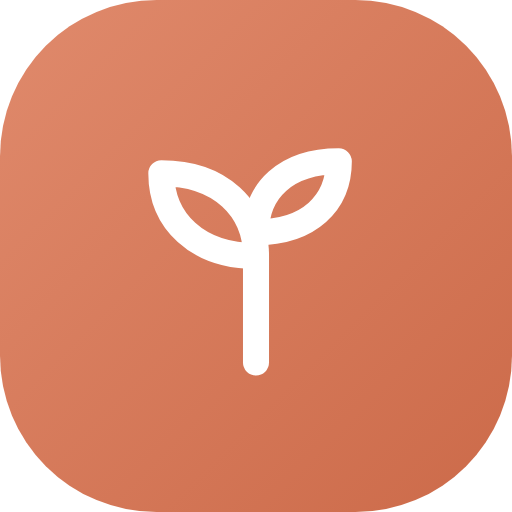
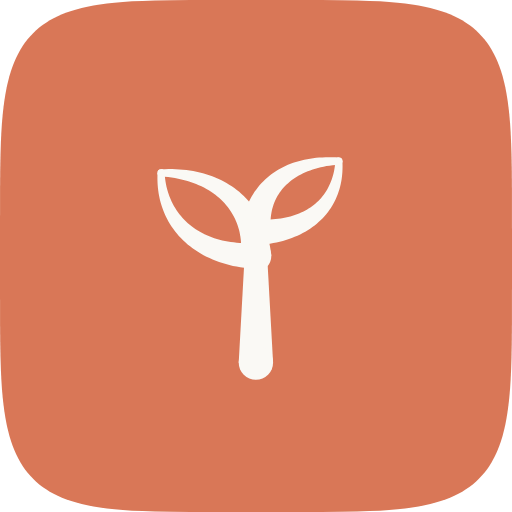
Console update

diff --git a/index.html b/index.html
@@ -3,7 +3,7 @@
 <head>
   <meta charset="utf-8">
   <meta name="viewport" content="width=device-width, initial-scale=1">
-  <title>Naked Console</title>
+  <title>Naked Heart</title>
   <meta name="description" content="Run a FarmBox: people, plans, procedures, crops.">
   <meta name="theme-color" content="#0b0b0d">
   <script>
@@ -23,12 +23,12 @@
   <link rel="preconnect" href="https://fonts.gstatic.com" crossorigin>
   <link rel="stylesheet" href="https://fonts.googleapis.com/css2?family=Inter:wght@400;500;600;700;800&display=swap">
   <!-- bump ?v when the stylesheet changes: a static host will serve the old one otherwise -->
-  <link rel="stylesheet" href="styles.css?v=20260926a">
+  <link rel="stylesheet" href="styles.css?v=20260926b">
   <link rel="manifest" href="manifest.json">
-  <link rel="icon" href="icons/icon-192.png?v=3" sizes="192x192" type="image/png">
-  <link rel="apple-touch-icon" href="icons/apple-touch-icon.png?v=3">
+  <link rel="icon" href="icons/icon-192.png?v=4" sizes="192x192" type="image/png">
+  <link rel="apple-touch-icon" href="icons/apple-touch-icon.png?v=4">
   <meta name="apple-mobile-web-app-capable" content="yes">
-  <meta name="apple-mobile-web-app-title" content="Naked Console">
+  <meta name="apple-mobile-web-app-title" content="Naked Heart">
 </head>
 <body>
 
@@ -36,8 +36,8 @@
 <main class="signin" id="signin" hidden>
   <form class="card card-pad" id="signinForm">
     <div class="brand">
-      <span class="mark" data-icon="sprout" aria-hidden="true"></span>
-      <span><b>Naked Console</b><small>Naked Farm</small></span>
+      <span class="mark" aria-hidden="true"><svg viewBox="0 0 100 100" aria-hidden="true"><path d="M100.00,50.00 L99.83,72.14 L99.31,79.12 L98.44,84.05 L97.20,87.89 L95.58,91.00 L93.53,93.53 L91.00,95.58 L87.89,97.20 L84.05,98.44 L79.12,99.31 L72.14,99.83 L50.00,100.00 L27.86,99.83 L20.88,99.31 L15.95,98.44 L12.11,97.20 L9.00,95.58 L6.47,93.53 L4.42,91.00 L2.80,87.89 L1.56,84.05 L0.69,79.12 L0.17,72.14 L0.00,50.00 L0.17,27.86 L0.69,20.88 L1.56,15.95 L2.80,12.11 L4.42,9.00 L6.47,6.47 L9.00,4.42 L12.11,2.80 L15.95,1.56 L20.88,0.69 L27.86,0.17 L50.00,0.00 L72.14,0.17 L79.12,0.69 L84.05,1.56 L87.89,2.80 L91.00,4.42 L93.53,6.47 L95.58,9.00 L97.20,12.11 L98.44,15.95 L99.31,20.88 L99.83,27.86 Z" fill="var(--brand-tile, #D97757)"/><g fill="#FAF9F5" transform="translate(22.2 22.2) scale(2.315)"><path d="M13.45,21.00 L13.41,20.36 L13.38,19.71 L13.34,19.07 L13.31,18.43 L13.27,17.79 L13.24,17.14 L13.20,16.50 L13.16,15.86 L13.13,15.21 L13.09,14.57 L13.06,13.93 L13.02,13.29 L12.99,12.64 L12.95,12.00 L11.05,12.00 L11.01,12.64 L10.98,13.29 L10.94,13.93 L10.91,14.57 L10.87,15.21 L10.84,15.86 L10.80,16.50 L10.76,17.14 L10.73,17.79 L10.69,18.43 L10.66,19.07 L10.62,19.71 L10.59,20.36 L10.55,21.00 Z"/><circle cx="12.00" cy="21.00" r="1.45"/><circle cx="12.00" cy="12.00" r="0.95"/><path d="M13.30,11.93 L13.15,11.03 L12.92,10.10 L12.59,9.23 L12.16,8.43 L11.65,7.69 L11.06,7.02 L10.39,6.43 L9.65,5.93 L8.85,5.51 L7.99,5.17 L7.07,4.92 L6.10,4.76 L5.07,4.68 L4.01,4.70 L3.99,5.30 L5.01,5.41 L5.94,5.60 L6.79,5.87 L7.56,6.21 L8.24,6.61 L8.85,7.06 L9.36,7.57 L9.79,8.11 L10.14,8.69 L10.42,9.30 L10.61,9.94 L10.72,10.60 L10.75,11.29 L10.70,12.07 Z"/><circle cx="12.00" cy="12.00" r="1.30"/><circle cx="4.00" cy="5.00" r="0.30"/><path d="M3.70,5.02 L3.70,5.88 L3.80,6.73 L3.98,7.56 L4.26,8.36 L4.64,9.12 L5.11,9.84 L5.67,10.50 L6.33,11.10 L7.07,11.64 L7.90,12.10 L8.82,12.48 L9.81,12.78 L10.87,12.99 L11.95,13.10 L12.05,10.90 L11.05,10.92 L10.16,10.86 L9.33,10.73 L8.55,10.52 L7.83,10.25 L7.18,9.91 L6.58,9.50 L6.04,9.03 L5.57,8.50 L5.16,7.91 L4.82,7.26 L4.57,6.56 L4.39,5.80 L4.30,4.98 Z"/><circle cx="4.00" cy="5.00" r="0.30"/><circle cx="12.00" cy="12.00" r="1.10"/><path d="M13.30,10.07 L13.24,9.39 L13.25,8.81 L13.33,8.25 L13.48,7.71 L13.69,7.20 L13.97,6.72 L14.32,6.26 L14.75,5.83 L15.26,5.44 L15.85,5.10 L16.52,4.81 L17.27,4.57 L18.10,4.40 L19.01,4.30 L18.99,3.70 L18.04,3.67 L17.12,3.73 L16.26,3.85 L15.44,4.05 L14.67,4.33 L13.96,4.69 L13.30,5.12 L12.71,5.62 L12.18,6.20 L11.73,6.85 L11.35,7.56 L11.05,8.32 L10.84,9.14 L10.70,9.93 Z"/><circle cx="12.00" cy="10.00" r="1.30"/><circle cx="19.00" cy="4.00" r="0.30"/><path d="M18.70,3.98 L18.62,4.70 L18.46,5.35 L18.24,5.95 L17.95,6.50 L17.60,6.99 L17.20,7.43 L16.74,7.81 L16.23,8.14 L15.66,8.41 L15.04,8.63 L14.37,8.79 L13.64,8.89 L12.85,8.93 L11.96,8.90 L12.04,11.10 L13.02,11.00 L13.97,10.81 L14.86,10.55 L15.67,10.22 L16.40,9.81 L17.06,9.34 L17.64,8.81 L18.13,8.23 L18.53,7.61 L18.85,6.94 L19.08,6.24 L19.23,5.52 L19.30,4.77 L19.30,4.02 Z"/><circle cx="19.00" cy="4.00" r="0.30"/><circle cx="12.00" cy="10.00" r="1.10"/></g></svg></span>
+      <span><b>Naked Heart</b><small>Naked Farm</small></span>
     </div>
     <div class="field" style="margin-bottom:var(--space-4)">
       <label for="si-email">E-mail</label>
@@ -56,8 +56,8 @@
 <div class="shell" id="shell" hidden>
   <nav class="rail" aria-label="Sections">
     <div class="brand">
-      <span class="mark" data-icon="sprout" aria-hidden="true"></span>
-      <span><b>Naked</b><small>Console</small></span>
+      <span class="mark" aria-hidden="true"><svg viewBox="0 0 100 100" aria-hidden="true"><path d="M100.00,50.00 L99.83,72.14 L99.31,79.12 L98.44,84.05 L97.20,87.89 L95.58,91.00 L93.53,93.53 L91.00,95.58 L87.89,97.20 L84.05,98.44 L79.12,99.31 L72.14,99.83 L50.00,100.00 L27.86,99.83 L20.88,99.31 L15.95,98.44 L12.11,97.20 L9.00,95.58 L6.47,93.53 L4.42,91.00 L2.80,87.89 L1.56,84.05 L0.69,79.12 L0.17,72.14 L0.00,50.00 L0.17,27.86 L0.69,20.88 L1.56,15.95 L2.80,12.11 L4.42,9.00 L6.47,6.47 L9.00,4.42 L12.11,2.80 L15.95,1.56 L20.88,0.69 L27.86,0.17 L50.00,0.00 L72.14,0.17 L79.12,0.69 L84.05,1.56 L87.89,2.80 L91.00,4.42 L93.53,6.47 L95.58,9.00 L97.20,12.11 L98.44,15.95 L99.31,20.88 L99.83,27.86 Z" fill="var(--brand-tile, #D97757)"/><g fill="#FAF9F5" transform="translate(22.2 22.2) scale(2.315)"><path d="M13.45,21.00 L13.41,20.36 L13.38,19.71 L13.34,19.07 L13.31,18.43 L13.27,17.79 L13.24,17.14 L13.20,16.50 L13.16,15.86 L13.13,15.21 L13.09,14.57 L13.06,13.93 L13.02,13.29 L12.99,12.64 L12.95,12.00 L11.05,12.00 L11.01,12.64 L10.98,13.29 L10.94,13.93 L10.91,14.57 L10.87,15.21 L10.84,15.86 L10.80,16.50 L10.76,17.14 L10.73,17.79 L10.69,18.43 L10.66,19.07 L10.62,19.71 L10.59,20.36 L10.55,21.00 Z"/><circle cx="12.00" cy="21.00" r="1.45"/><circle cx="12.00" cy="12.00" r="0.95"/><path d="M13.30,11.93 L13.15,11.03 L12.92,10.10 L12.59,9.23 L12.16,8.43 L11.65,7.69 L11.06,7.02 L10.39,6.43 L9.65,5.93 L8.85,5.51 L7.99,5.17 L7.07,4.92 L6.10,4.76 L5.07,4.68 L4.01,4.70 L3.99,5.30 L5.01,5.41 L5.94,5.60 L6.79,5.87 L7.56,6.21 L8.24,6.61 L8.85,7.06 L9.36,7.57 L9.79,8.11 L10.14,8.69 L10.42,9.30 L10.61,9.94 L10.72,10.60 L10.75,11.29 L10.70,12.07 Z"/><circle cx="12.00" cy="12.00" r="1.30"/><circle cx="4.00" cy="5.00" r="0.30"/><path d="M3.70,5.02 L3.70,5.88 L3.80,6.73 L3.98,7.56 L4.26,8.36 L4.64,9.12 L5.11,9.84 L5.67,10.50 L6.33,11.10 L7.07,11.64 L7.90,12.10 L8.82,12.48 L9.81,12.78 L10.87,12.99 L11.95,13.10 L12.05,10.90 L11.05,10.92 L10.16,10.86 L9.33,10.73 L8.55,10.52 L7.83,10.25 L7.18,9.91 L6.58,9.50 L6.04,9.03 L5.57,8.50 L5.16,7.91 L4.82,7.26 L4.57,6.56 L4.39,5.80 L4.30,4.98 Z"/><circle cx="4.00" cy="5.00" r="0.30"/><circle cx="12.00" cy="12.00" r="1.10"/><path d="M13.30,10.07 L13.24,9.39 L13.25,8.81 L13.33,8.25 L13.48,7.71 L13.69,7.20 L13.97,6.72 L14.32,6.26 L14.75,5.83 L15.26,5.44 L15.85,5.10 L16.52,4.81 L17.27,4.57 L18.10,4.40 L19.01,4.30 L18.99,3.70 L18.04,3.67 L17.12,3.73 L16.26,3.85 L15.44,4.05 L14.67,4.33 L13.96,4.69 L13.30,5.12 L12.71,5.62 L12.18,6.20 L11.73,6.85 L11.35,7.56 L11.05,8.32 L10.84,9.14 L10.70,9.93 Z"/><circle cx="12.00" cy="10.00" r="1.30"/><circle cx="19.00" cy="4.00" r="0.30"/><path d="M18.70,3.98 L18.62,4.70 L18.46,5.35 L18.24,5.95 L17.95,6.50 L17.60,6.99 L17.20,7.43 L16.74,7.81 L16.23,8.14 L15.66,8.41 L15.04,8.63 L14.37,8.79 L13.64,8.89 L12.85,8.93 L11.96,8.90 L12.04,11.10 L13.02,11.00 L13.97,10.81 L14.86,10.55 L15.67,10.22 L16.40,9.81 L17.06,9.34 L17.64,8.81 L18.13,8.23 L18.53,7.61 L18.85,6.94 L19.08,6.24 L19.23,5.52 L19.30,4.77 L19.30,4.02 Z"/><circle cx="19.00" cy="4.00" r="0.30"/><circle cx="12.00" cy="10.00" r="1.10"/></g></svg></span>
+      <span><b>Naked</b><small>Heart</small></span>
       <button class="rail-toggle" id="railToggle" type="button" data-icon="chevronLeft"
               aria-label="Collapse the menu" title="Collapse the menu" aria-expanded="true"></button>
     </div>
@@ -95,7 +95,7 @@
       <span class="pill" id="envPill">Supabase</span>
       <div class="zoom" id="zoom" role="group" aria-label="Zoom"></div>
       <button class="pill net" id="net" type="button" aria-live="polite"></button>
-      <span class="top-version" id="topVersion" title="Naked Console version — Settings › Version log"></span>
+      <span class="top-version" id="topVersion" title="Naked Heart version — Settings › Version log"></span>
       <div class="upd" id="upd" hidden></div>
       <button class="btn btn-sm topbar-ai" id="aiBtn" type="button" title="The assistant: questions, planning, imports, reports">✦ Assistant</button>
       <button class="btn btn-ghost btn-icon topbar-gear" id="settingsBtn" type="button"
@@ -107,7 +107,7 @@
   </div>
 </div>
 
-<script type="module" src="js/app.js?v=20260926a"></script>
+<script type="module" src="js/app.js?v=20260926b"></script>
 <script>
   // Installable, and it still opens when the signal drops between the
   // office and the container. The worker is network-first, so being

diff --git a/styles.css b/styles.css
@@ -1,5 +1,5 @@
 /* ═══════════════════════════════════════════════════════════════════════════
-   Naked Console (was FarmBox Console) — dark studio skin
+   Naked Heart (was Naked Console, FarmBox Console) — dark studio skin
    A near-black ground, graphite cards and one orange accent for what you press
    and where you are. Green, amber, red and blue carry state and nothing else.
    The token names are still Naked Farm UI v1's, so every page restyles from
@@ -76,11 +76,10 @@ button, input, select, textarea { font: inherit; color: inherit; }
 .brand { display: flex; align-items: center; gap: var(--space-3);
   padding: 0 var(--space-2); margin-bottom: var(--space-5); }
 .brand .mark {
-  width: 36px; height: 36px; border-radius: 11px; background: var(--accent-grad);
-  color: #fff; display: grid; place-items: center; flex: 0 0 auto;
-  box-shadow: var(--shadow-accent);
+  width: 36px; height: 36px; flex: 0 0 auto; display: block;
+  filter: drop-shadow(0 4px 10px rgba(217,119,87,0.28));
 }
-.brand .mark svg { width: 20px; height: 20px; stroke-width: 2.2; }
+.brand .mark svg { width: 36px; height: 36px; display: block; }
 .brand b { display: block; font-size: var(--text-sm); font-weight: 800;
   letter-spacing: 0.08em; text-transform: uppercase; }
 .brand small { display: block; color: var(--text-faint); font-size: var(--text-xs); }

diff --git a/js/update.js b/js/update.js
@@ -14,7 +14,7 @@
 // ═══════════════════════════════════════════════════════════════════════════
 import { el, icon } from './ui.js';
 
-export const VERSION = '0.7.130';
+export const VERSION = '0.7.131';
 
 const DISMISSED = 'fbc_update_dismissed';
 const TARGET    = 'fbc_update_target';
@@ -73,7 +73,7 @@ function show(latest, stuck) {
   const text = el('div', 'update-text');
   text.append(el('b', null, `Version ${latest} is ready`));
   text.append(el('span', null, stuck
-    ? 'The update did not finish — close every Naked Console tab and open it again.'
+    ? 'The update did not finish — close every Naked Heart tab and open it again.'
     : `You are on ${VERSION}. Nothing you have typed is lost by updating.`));
 
   const go = el('button', 'btn btn-primary btn-sm', 'Update now');

diff --git a/sw.js b/sw.js
@@ -1,4 +1,4 @@
-// Naked Console (was FarmBox Console) — service worker.
+// Naked Heart (was Naked Console, FarmBox Console) — service worker.
 //
 // Network first, cache second, deliberately. The phone app was bitten once by a
 // cache-first worker that kept serving a shipped-and-fixed bug for days
@@ -9,7 +9,7 @@
 // Bump CACHE when the shell changes; the old one is deleted on activate.
 // TAG is the ?v= index.html puts on styles.css and app.js: the two must match
 // (the precached URL is the requested URL), so bump both together.
-const TAG = '20260926a';
+const TAG = '20260926b';
 const CACHE = 'farmbox-console-' + TAG;
 
 const SHELL = [

diff --git a/js/app.js b/js/app.js
@@ -437,7 +437,7 @@ async function route() {
     a.dataset.route === sec ? a.setAttribute('aria-current', 'page')
                             : a.removeAttribute('aria-current'));
   const title = SECTIONS[sec].title;
-  document.title = `${tab[1] === title ? title : tab[1] + ' · ' + title} · Naked Console`;
+  document.title = `${tab[1] === title ? title : tab[1] + ' · ' + title} · Naked Heart`;
   paintTabs(sec, tab);
 
   newPage();

diff --git a/js/settings.js b/js/settings.js
@@ -449,7 +449,7 @@ function version() {
   const list = el('div', 'set-list');
   const status = el('small', null, 'Checking for updates…');
   const t = el('div', 'set-text');
-  t.append(el('b', null, `Naked Console ${VERSION}`), status);
+  t.append(el('b', null, `Naked Heart ${VERSION}`), status);
   const btn = el('button', 'btn btn-sm', 'Check again');
   btn.type = 'button';
   const r = el('div', 'set-row');
